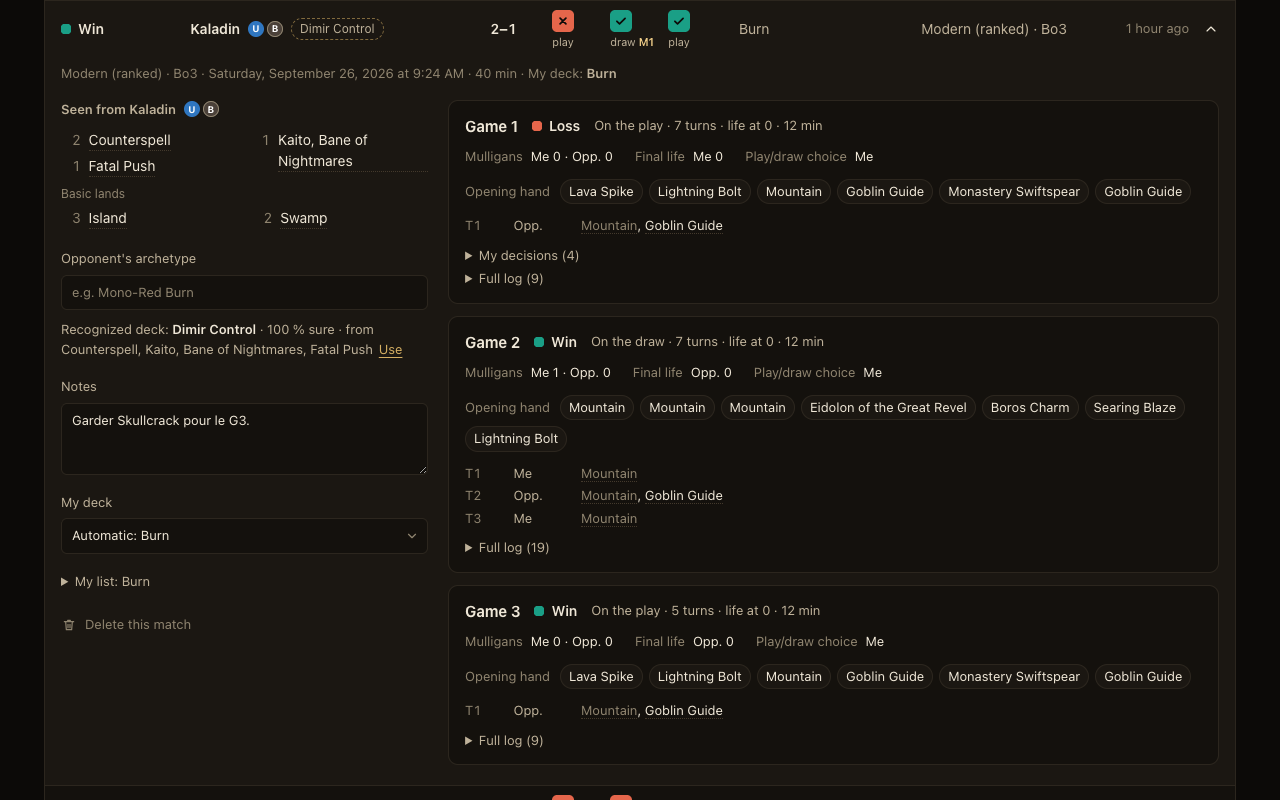
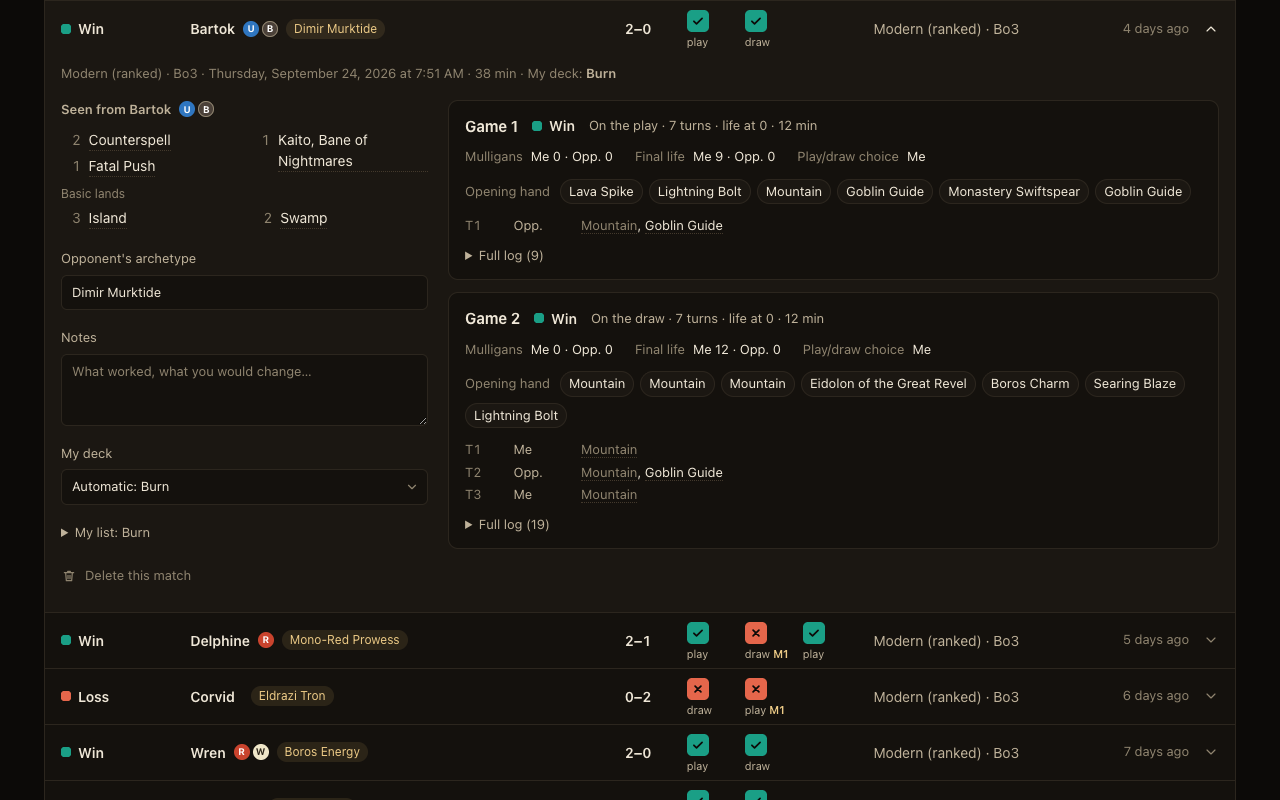
Store screenshots from the 1.0 dashboard: summary, match detail, French; shots.js adds 24 synthetic Modern matches (made-up opponents) for them

diff --git a/store/shots.js b/store/shots.js
@@ -3,6 +3,39 @@ const puppeteer = require('/Users/mickaelcouzinet/.npm/_npx/2eca716f256486a9/nod
 const CHROME = '/Users/mickaelcouzinet/.cache/puppeteer/chrome/mac_arm-152.0.7977.42/chrome-mac-arm64/Google Chrome for Testing.app/Contents/MacOS/Google Chrome for Testing';
 const H = `${__dirname}/../test/harness`;
 const sleep = (ms) => new Promise((r) => setTimeout(r, ms));
+// The QA demo holds a handful of matches, too few for the summary to show a rate. For the screenshots only, 24 more
+// synthetic Modern matches with Burn over three weeks (made-up opponents, real metagame archetypes), then a reload.
+async function enrich() {
+  const base = window.__DATA['match:m1'];
+  const opps = ['Vexxa', 'Morrow_42', 'pikachu_mtg', 'Liliana_fan', 'Grimsby', 'Tomek', 'Ouzo', 'Salt_Lord', 'Nimbus', 'Haldor', 'Kestrel', 'Brume',
+    'Quillon', 'Zephyr77', 'Ravenna', 'Otto_B', 'Maelle', 'Jaspar', 'Wren', 'Corvid', 'Delphine', 'Bartok', 'Sable', 'Ivo'];
+  const archs = ['Boros Energy', 'Dimir Murktide', 'Amulet Titan', 'Eldrazi Tron', 'Boros Energy', 'Living End', 'Jeskai Control', 'Dimir Murktide',
+    'Ruby Storm', 'Boros Energy', 'Amulet Titan', 'Eldrazi Tron', 'Golgari Yawgmoth', 'Boros Energy', 'Dimir Murktide', 'Living End',
+    'Jeskai Control', 'Amulet Titan', 'Boros Energy', 'Eldrazi Tron', 'Mono-Red Prowess', 'Dimir Murktide', 'Boros Energy', 'Goryo Reanimator'];
+  const lost = new Set([2, 5, 9, 13, 14, 19, 22]);
+  const colors = { 'Boros Energy': 'RW', 'Dimir Murktide': 'UB', 'Amulet Titan': 'G', 'Eldrazi Tron': '', 'Living End': 'BRG', 'Jeskai Control': 'URW',
+    'Ruby Storm': 'R', 'Golgari Yawgmoth': 'BG', 'Mono-Red Prowess': 'R', 'Goryo Reanimator': 'WB' };
+  const game = (n, first, winner) => Object.assign(JSON.parse(JSON.stringify(base.games[(n - 1) % base.games.length])), {
+    n, firstSeat: first, winnerSeat: winner, outcome: true, life: winner === 0 ? { 0: 6 + 3 * n, 1: 0 } : { 0: 0, 1: 11 - n },
+    mulligans: { 0: n === 2 && winner ? 1 : 0, 1: 0 } });
+  opps.forEach((opp, i) => {
+    const won = !lost.has(i);
+    const first = i % 3 === 1 ? 1 : 0;
+    const threeGames = i % 4 === 0;
+    const games = won ? (threeGames ? [game(1, first, 0), game(2, 1 - first, 1), game(3, first, 0)] : [game(1, first, 0), game(2, 1, 0)])
+      : (threeGames ? [game(1, first, 1), game(2, 0, 0), game(3, 1, 1)] : [game(1, first, 1), game(2, 0, 1)]);
+    const at = Date.now() - (22 - i * 0.85) * 864e5;
+    const m = Object.assign(JSON.parse(JSON.stringify(base)), { id: 's' + i, startedAt: at, updatedAt: at + 38 * 60e3, endedAt: at + 38 * 60e3,
+      status: 'complete', result: won ? 'W' : 'L', winnerSeat: won ? 0 : 1, score: [games.filter((g) => g.winnerSeat === 0).length, games.filter((g) => g.winnerSeat === 1).length], games });
+    m.players = [{ seat: 0, name: 'guest_rZ8gWdWE' }, { seat: 1, name: opp }];
+    m.colors = { 1: colors[archs[i]] };
+    m.participants = m.players.map((pl) => ({ userId: 'u' + pl.seat, username: pl.name, isBot: false }));
+    window.__DATA['match:s' + i] = m;
+    window.__DATA['note:s' + i] = { archetype: archs[i] };
+  });
+  await load();
+}
+
 (async () => {
   const b = await puppeteer.launch({ executablePath: CHROME, headless: true, args: ['--allow-file-access-from-files'] });
   const open = async (lang, prefs) => {
@@ -16,7 +49,9 @@ const sleep = (ms) => new Promise((r) => setTimeout(r, ms));
     await p.evaluate((prefs) => { localStorage.clear(); if (prefs) localStorage.setItem('endstep-tracker.filters', JSON.stringify(prefs)); }, prefs || null);
     await p.reload();
     await sleep(500);
-    await p.select('#lang', lang);
+    await p.select('#lang', lang); // reloads the page, and with it the demo data
+    await sleep(1500);
+    await p.evaluate(enrich);
     await sleep(2500); // let the stubbed metagame load so no toast is up
     return p;
   };
@@ -24,15 +59,15 @@ const sleep = (ms) => new Promise((r) => setTimeout(r, ms));
     await p.evaluate(() => { const t = document.getElementById('toast'); if (t) t.hidden = true; });
     await p.screenshot({ path: `${__dirname}/${name}` });
   };
-  const ALL = { scope: { format: null, deck: null } }; // all decks: the default (most played deck) shows a thinner demo
-  let p = await open('en', ALL);
+  const BURN = { scope: { format: 'Modern', deck: 'Burn' } }; // the deck the synthetic matches are played with
+  let p = await open('en', BURN);
   await shot(p, '1-dashboard-en.png');
-  await p.click('.match[data-id="m1"] .match-row');
+  await p.click('.match[data-id="s21"] .match-row');
   await sleep(400);
-  await p.evaluate(() => document.querySelector('.match[data-id="m1"]').scrollIntoView({ block: 'start' }));
+  await p.evaluate(() => document.querySelector('.match[data-id="s21"]').scrollIntoView({ block: 'start' }));
   await sleep(300);
   await shot(p, '2-match-detail.png');
-  p = await open('fr', ALL);
+  p = await open('fr', BURN);
   await shot(p, '3-dashboard-fr.png');
   await b.close();
 })();
